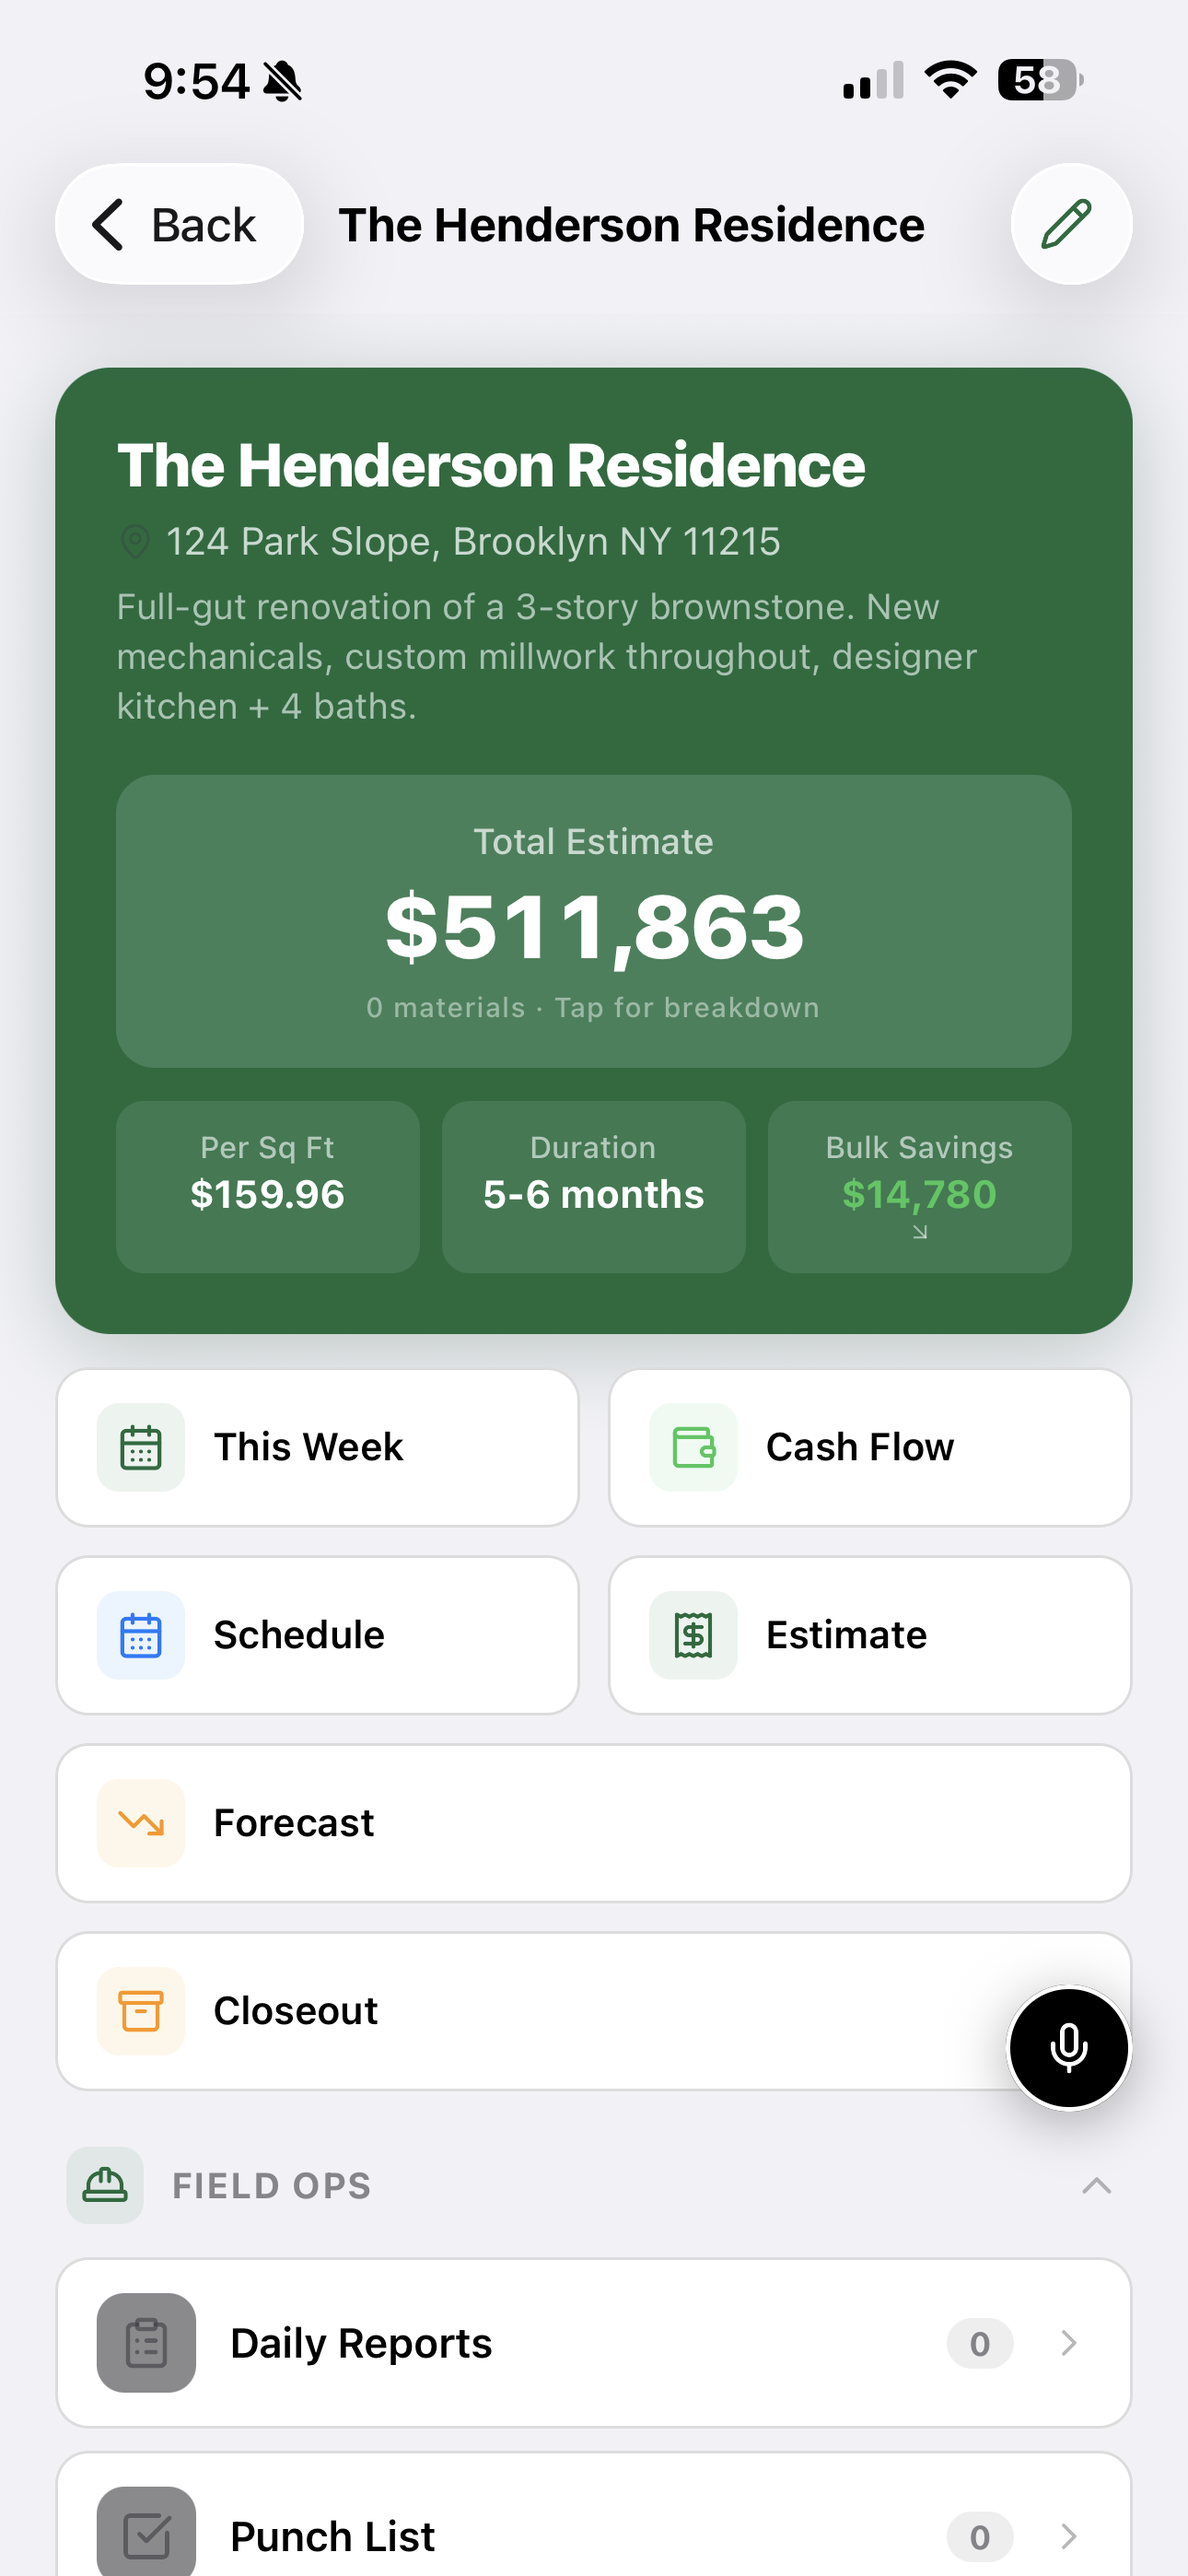
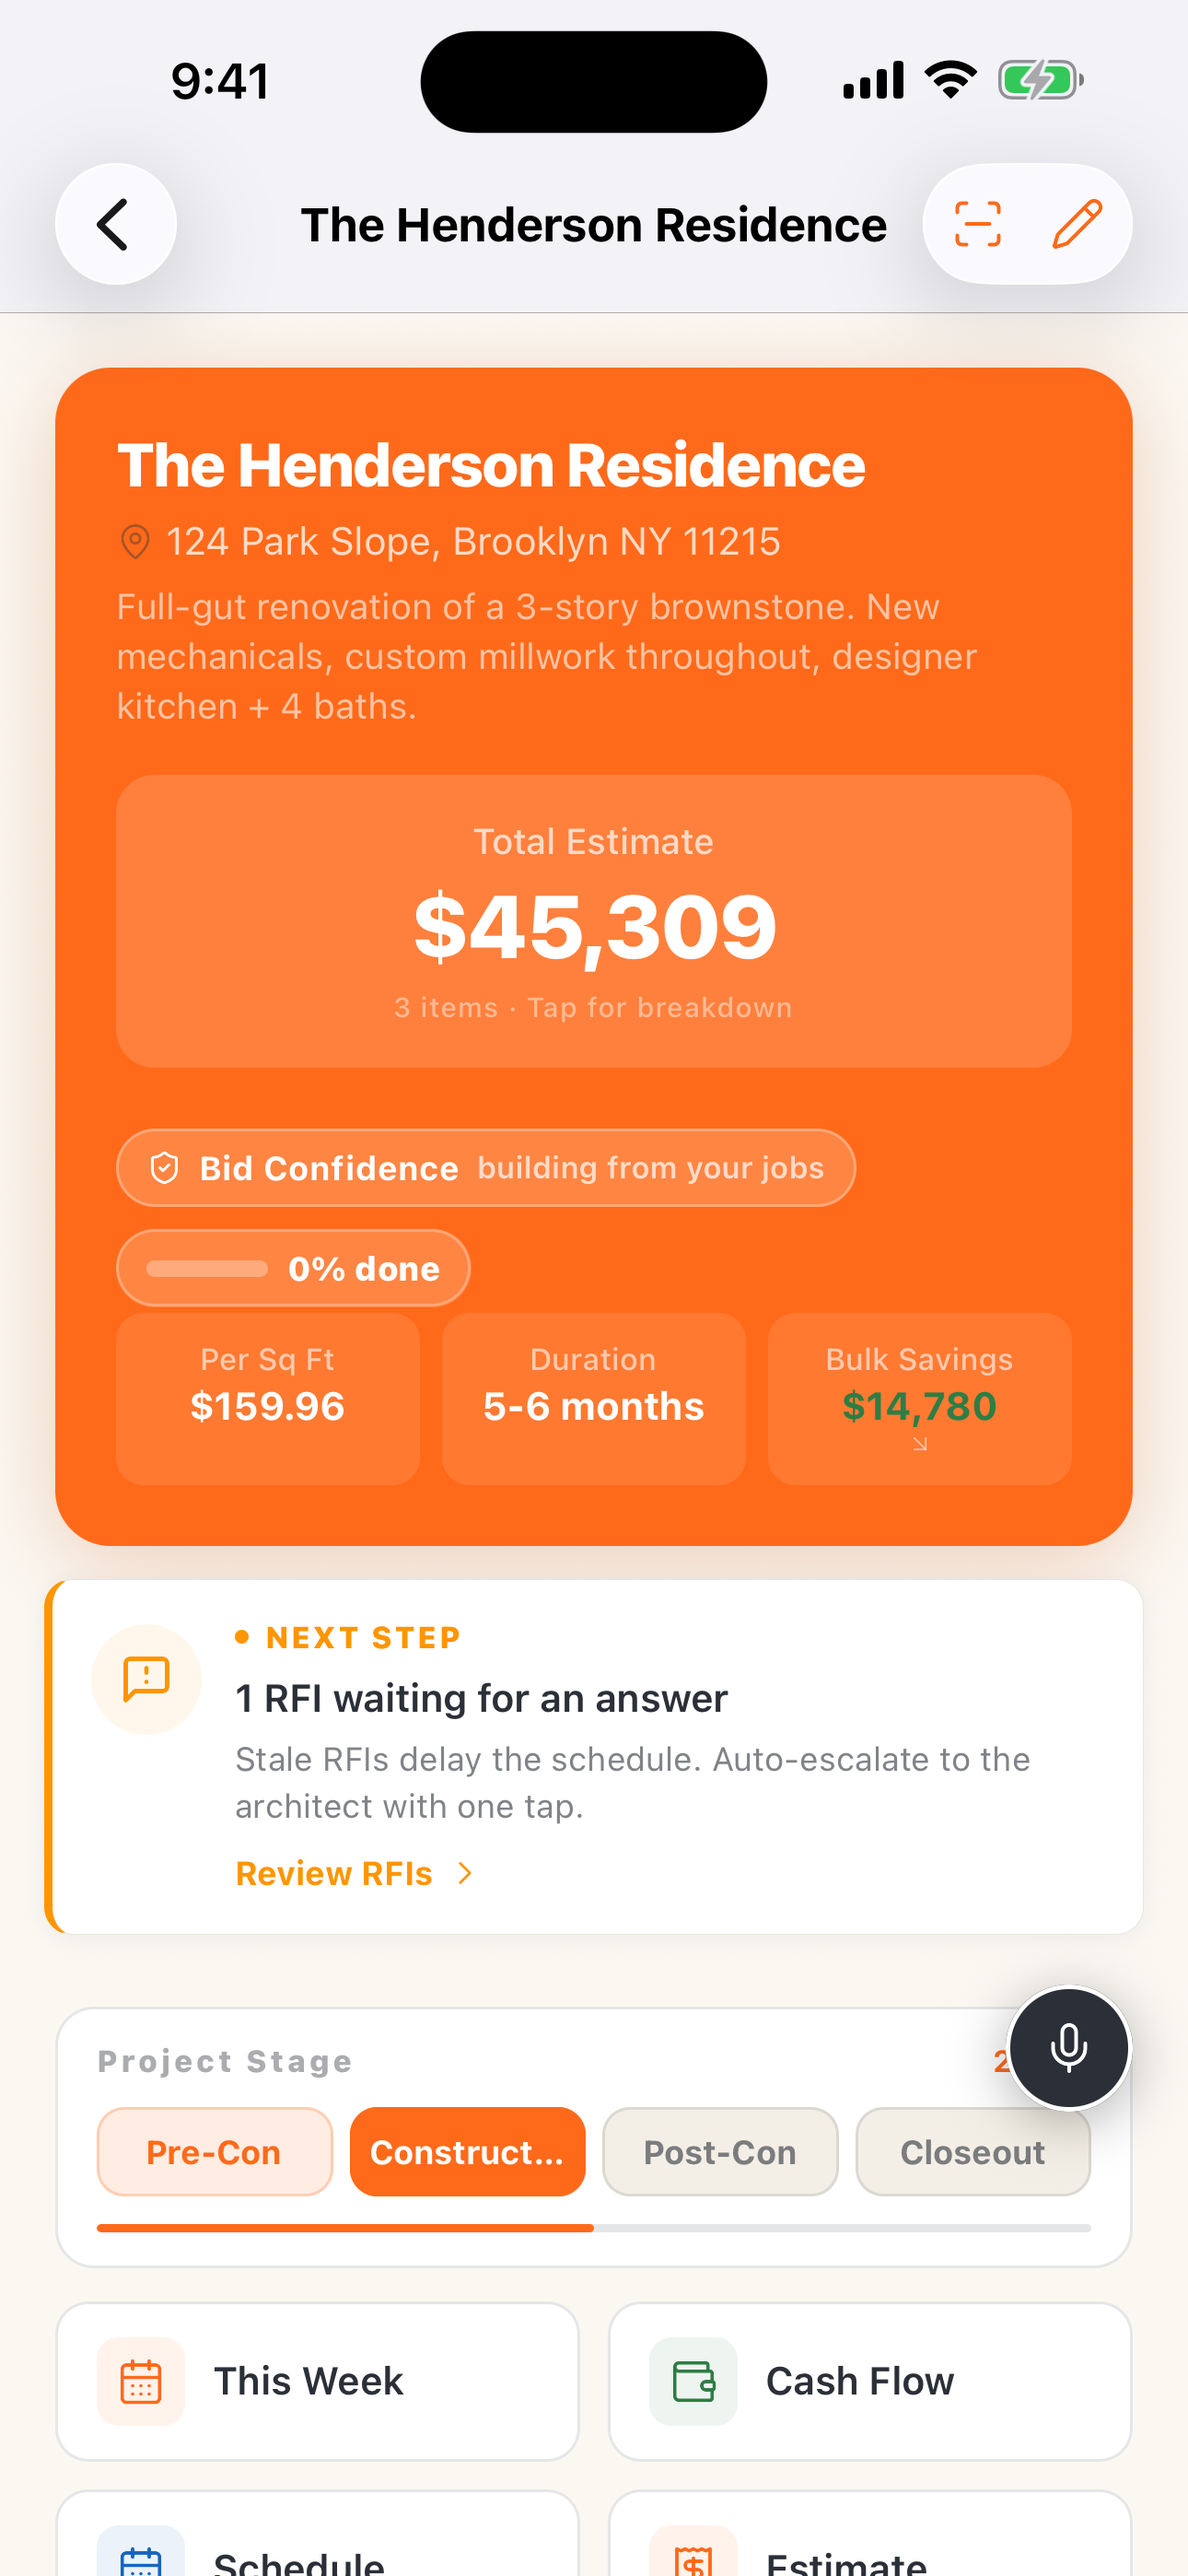
fix(estimate): stop Estimator infinite render loop + refresh marketing screenshots (#66)
* fix(estimate): stop the Estimator's infinite render loop (Maximum update depth)

refreshPrices() calls ctxReplaceCart(), which mutates `cart`. Because `cart`
is one of refreshPrices's useCallback deps, refreshPrices got a fresh identity
after every run — and the re-pricing effect listed refreshPrices in its deps,
so it re-fired endlessly: effect → replaceCart → cart changes → refreshPrices
recreated → effect re-fires. React threw "Maximum update depth exceeded"
continuously on the Estimator screen (and, since the tab stays mounted, the
error bled onto every screen visited afterward).

Fire the effect strictly on locationMultiplier and reach the latest
refreshPrices through a ref, so the effect's identity never churns when the
cart changes. Manual "refresh prices" buttons keep using refreshPrices directly.

Verified on the iOS simulator: 0 "Maximum update depth" errors after the fix
(was firing continuously before).

* Marketing: refresh 17 app screenshots from clean simulator captures

Re-captured every marketing-referenced app screen on the iOS simulator
running current code (iPhone 15 Pro Max, 1290×2796):

- Estimator + Takeoff re-shot after the render-loop fix — screens now
  render stable with no error overlay.
- New/updated: projects, henderson hero, selections & allowances,
  schedule (gantt/summary/crew), AI copilot, cash flow, summary,
  budget EVM dashboard, bulk savings, companies, find-work, ai-estimator.

---------

diff --git a/app/(tabs)/estimate/index.tsx b/app/(tabs)/estimate/index.tsx
@@ -418,9 +418,18 @@ export default function EstimateScreen() {
   // Only re-price when location changes. Removed the 5-minute interval and the
   // AppState resume refresh — those were causing estimates to drift by a cent
   // every time the user left and came back.
+  //
+  // refreshPrices calls ctxReplaceCart, which mutates `cart`; `cart` is one of
+  // refreshPrices's deps, so refreshPrices gets a fresh identity after every
+  // run. Listing it in this effect's deps therefore created an infinite update
+  // loop (React's "Maximum update depth exceeded"). Fix: fire strictly on
+  // locationMultiplier and reach the latest refreshPrices through a ref, so the
+  // effect's own identity never churns when the cart changes.
+  const refreshPricesRef = useRef(refreshPrices);
+  useEffect(() => { refreshPricesRef.current = refreshPrices; }, [refreshPrices]);
   useEffect(() => {
-    refreshPrices();
-  }, [locationMultiplier, refreshPrices]);
+    refreshPricesRef.current();
+  }, [locationMultiplier]);
 
   const filteredMaterials = useMemo(() => {
     let results = materials;
